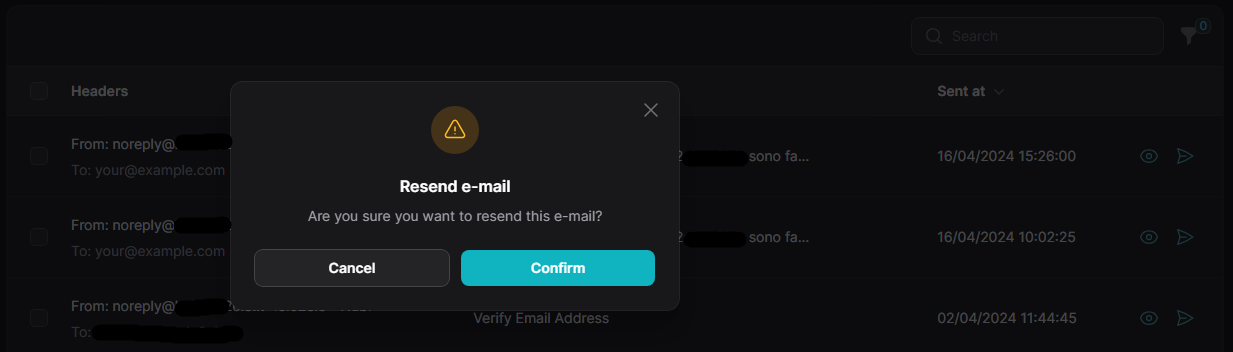
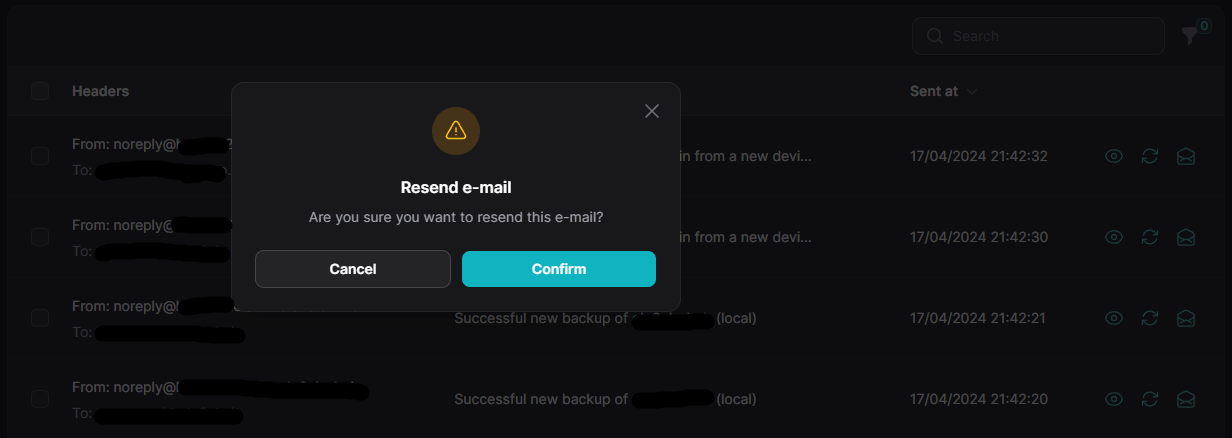
Updated screenshots

diff --git a/README.md b/README.md
@@ -40,11 +40,21 @@ composer test
 
 ## Screenshots
 
+### E-mail list
+
 ![](https://raw.githubusercontent.com/marcogermani87/filament-email/main/screenshots/table.png)
+
+### Advanced filters
 
 ![](https://raw.githubusercontent.com/marcogermani87/filament-email/main/screenshots/filters.png)
 
+### Resend e-mail
+
 ![](https://raw.githubusercontent.com/marcogermani87/filament-email/main/screenshots/resend.png)
+
+### Update addresses and resend e-mail
+
+![](https://raw.githubusercontent.com/marcogermani87/filament-email/main/screenshots/update-and-resend.png)
 
 ## Credits
 
